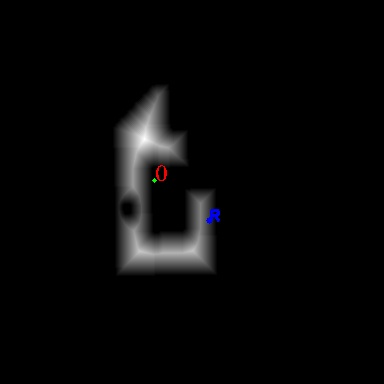
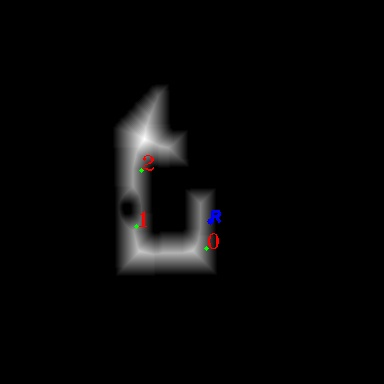
update

Changed region(s): [[0.5312, 0.5312, 0.5938, 0.6562], [0.3438, 0.4062, 0.4375, 0.5], [0.3438, 0.5312, 0.4062, 0.5938]]

diff --git a/turtlebot3_67301/scripts/assignment_2.py b/turtlebot3_67301/scripts/assignment_2.py
@@ -153,8 +153,8 @@ def euler_to_quaternion(yaw):
         z = np.sin(yaw/2) 
         return (z, w)
 
-def subcribe_location(agen_id=0):
-    rospy.Subscriber('tb3_{}/odom'.format(agen_id), Odometry, callback_odom)
+def subcribe_location(agent_id=0):
+    rospy.Subscriber('tb3_{}/odom'.format(agent_id), Odometry, callback_odom)
 
 def to_map_img_point(x, y):
     return int((y-global_map_origin[1])/0.05), int((x-global_map_origin[0])/0.05)
@@ -164,7 +164,7 @@ def to_map_img_point(x, y):
 
 #############################  C & C
 
-def sort_dirts(dirt_list, annotate=True):
+def sort_dirts(dirt_list, annotate=True, agent_id=0):
     global robot_location, global_map_origin, EDT_ANOT_IMG_PATH, EDT_IMG_PATH
     while robot_location is None:
         print("waiting for location")
@@ -176,17 +176,15 @@ def sort_dirts(dirt_list, annotate=True):
         edt_level = cv2.imread(EDT_IMG_PATH)
         # edt_level[rows, cols] = [0,172,254] # color level range in Orange
         for ix, point in enumerate(sorted_dirt_list):
-            point = to_map_img_point(point[0], point[1])
-            print(point,'-'*7)
+            point = to_map_img_point(*point)
             cv2.putText(edt_level, str(ix), point, cv2.FONT_HERSHEY_TRIPLEX, 0.7, (0, 0, 255), 1)
             cv2.circle(edt_level, point, 2, (0, 255, 0), thickness=-1)
         
-        # robot_location_on_map = (int((robot_location[1]-global_map_origin[1])/0.05), int((robot_location[0]-global_map_origin[0])/0.05))
         robot_location_on_map = to_map_img_point(*robot_location)
 
         cv2.circle(edt_level, robot_location_on_map, 3, (255, 0, 0), thickness=-1) # mark robot in Blue
         cv2.putText(edt_level, "R", robot_location_on_map, cv2.FONT_HERSHEY_SIMPLEX, 0.5, (255, 0, 0), 2)
-        cv2.imwrite(EDT_ANOT_IMG_PATH(0), edt_level)
+        cv2.imwrite(EDT_ANOT_IMG_PATH(agent_id), edt_level)
     
     return sorted_dirt_list
 
@@ -217,7 +215,7 @@ def multi_move(x, y, agent_id=0):
         print('skipping ({}, {})'.format(x, y))
 
 def basic_cleaning(dirts_list, agent_id=0):
-    sorted_dirts = sort_dirts(dirts_list)
+    sorted_dirts = sort_dirts(dirts_list, agent_id=agent_id)
     for g in sorted_dirts:
         x, y = g
         multi_move(x, y, agent_id)
